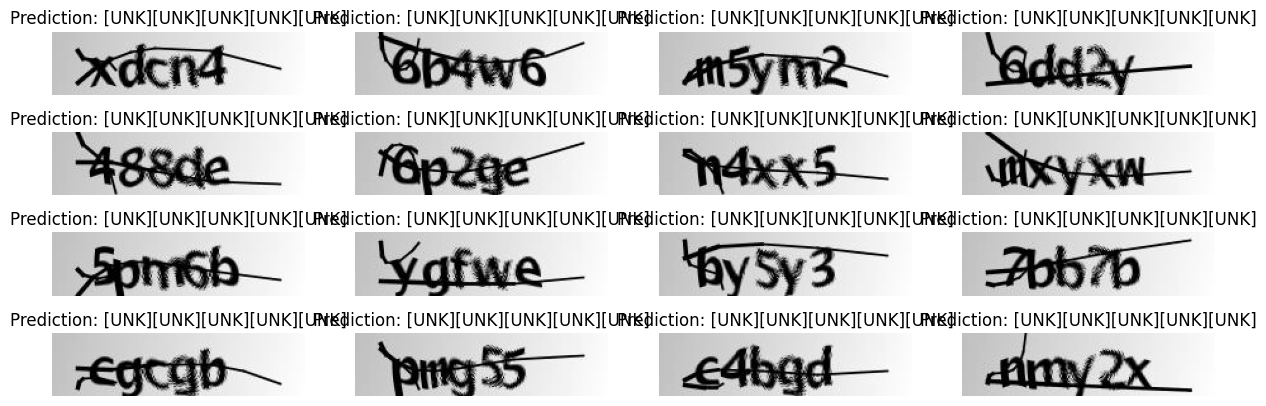
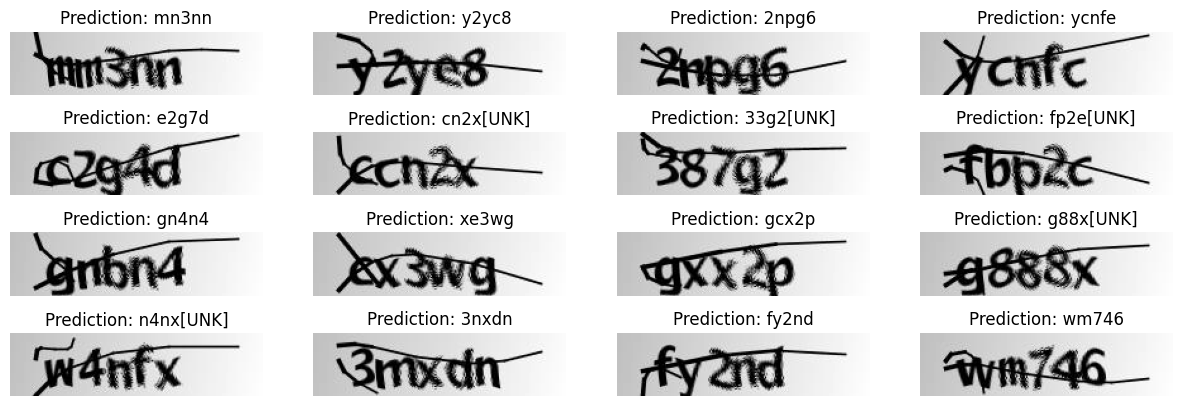
update captcha example

diff --git a/examples/vision/captcha_ocr.py b/examples/vision/captcha_ocr.py
@@ -330,7 +330,7 @@ model.summary()
 
 
 # TODO restore epoch count.
-epochs = 2
+epochs = 100
 early_stopping_patience = 10
 # Add early stopping
 early_stopping = keras.callbacks.EarlyStopping(

diff --git a/examples/vision/md/captcha_ocr.md b/examples/vision/md/captcha_ocr.md
@@ -56,7 +56,7 @@ Let's download the data.
   % Total    % Received % Xferd  Average Speed   Time    Time     Time  Current
                                  Dload  Upload   Total   Spent    Left  Speed
   0     0    0     0    0     0      0      0 --:--:-- --:--:-- --:--:--     0
-100 8863k  100 8863k    0     0  19.6M      0 --:--:-- --:--:-- --:--:-- 19.6M
+100 8863k  100 8863k    0     0  11.9M      0 --:--:-- --:--:-- --:--:--  141M
 
 ```
 </div>
@@ -432,7 +432,7 @@ model.summary()
 ```python
 
 # TODO restore epoch count.
-epochs = 2
+epochs = 100
 early_stopping_patience = 10
 # Add early stopping
 early_stopping = keras.callbacks.EarlyStopping(
@@ -451,10 +451,206 @@ history = model.fit(
 
 <div class="k-default-codeblock">
 ```
-Epoch 1/2
- 59/59 ━━━━━━━━━━━━━━━━━━━━ 8s 78ms/step - loss: 31.6480 - val_loss: 16.4761
-Epoch 2/2
- 59/59 ━━━━━━━━━━━━━━━━━━━━ 4s 64ms/step - loss: 16.4152 - val_loss: 16.4351
+Epoch 1/100
+ 59/59 ━━━━━━━━━━━━━━━━━━━━ 22s 229ms/step - loss: 35.8756 - val_loss: 16.3966
+Epoch 2/100
+ 59/59 ━━━━━━━━━━━━━━━━━━━━ 14s 235ms/step - loss: 16.4092 - val_loss: 16.3648
+Epoch 3/100
+ 59/59 ━━━━━━━━━━━━━━━━━━━━ 13s 224ms/step - loss: 16.3922 - val_loss: 16.3571
+Epoch 4/100
+ 59/59 ━━━━━━━━━━━━━━━━━━━━ 13s 218ms/step - loss: 16.3749 - val_loss: 16.3602
+Epoch 5/100
+ 59/59 ━━━━━━━━━━━━━━━━━━━━ 20s 210ms/step - loss: 16.3756 - val_loss: 16.3513
+Epoch 6/100
+ 59/59 ━━━━━━━━━━━━━━━━━━━━ 14s 236ms/step - loss: 16.3737 - val_loss: 16.3466
+Epoch 7/100
+ 59/59 ━━━━━━━━━━━━━━━━━━━━ 13s 227ms/step - loss: 16.3591 - val_loss: 16.3479
+Epoch 8/100
+ 59/59 ━━━━━━━━━━━━━━━━━━━━ 13s 219ms/step - loss: 16.3505 - val_loss: 16.3436
+Epoch 9/100
+ 59/59 ━━━━━━━━━━━━━━━━━━━━ 13s 213ms/step - loss: 16.3440 - val_loss: 16.3386
+Epoch 10/100
+ 59/59 ━━━━━━━━━━━━━━━━━━━━ 13s 226ms/step - loss: 16.3312 - val_loss: 16.3066
+Epoch 11/100
+ 59/59 ━━━━━━━━━━━━━━━━━━━━ 13s 224ms/step - loss: 16.3077 - val_loss: 16.3288
+Epoch 12/100
+ 59/59 ━━━━━━━━━━━━━━━━━━━━ 13s 226ms/step - loss: 16.2746 - val_loss: 16.2750
+Epoch 13/100
+ 59/59 ━━━━━━━━━━━━━━━━━━━━ 13s 214ms/step - loss: 16.1853 - val_loss: 16.1606
+Epoch 14/100
+ 59/59 ━━━━━━━━━━━━━━━━━━━━ 21s 229ms/step - loss: 16.0636 - val_loss: 16.1616
+Epoch 15/100
+ 59/59 ━━━━━━━━━━━━━━━━━━━━ 13s 223ms/step - loss: 15.9873 - val_loss: 16.0928
+Epoch 16/100
+ 59/59 ━━━━━━━━━━━━━━━━━━━━ 13s 224ms/step - loss: 15.9339 - val_loss: 16.0070
+Epoch 17/100
+ 59/59 ━━━━━━━━━━━━━━━━━━━━ 13s 213ms/step - loss: 15.8379 - val_loss: 15.8443
+Epoch 18/100
+ 59/59 ━━━━━━━━━━━━━━━━━━━━ 13s 212ms/step - loss: 15.7156 - val_loss: 15.6414
+Epoch 19/100
+ 59/59 ━━━━━━━━━━━━━━━━━━━━ 21s 224ms/step - loss: 15.5618 - val_loss: 15.5937
+Epoch 20/100
+ 59/59 ━━━━━━━━━━━━━━━━━━━━ 20s 219ms/step - loss: 15.4386 - val_loss: 15.4481
+Epoch 21/100
+ 59/59 ━━━━━━━━━━━━━━━━━━━━ 13s 215ms/step - loss: 15.2270 - val_loss: 15.4191
+Epoch 22/100
+ 59/59 ━━━━━━━━━━━━━━━━━━━━ 14s 229ms/step - loss: 15.0565 - val_loss: 15.1226
+Epoch 23/100
+ 59/59 ━━━━━━━━━━━━━━━━━━━━ 13s 226ms/step - loss: 14.8641 - val_loss: 14.9598
+Epoch 24/100
+ 59/59 ━━━━━━━━━━━━━━━━━━━━ 13s 225ms/step - loss: 14.6488 - val_loss: 14.7074
+Epoch 25/100
+ 59/59 ━━━━━━━━━━━━━━━━━━━━ 20s 213ms/step - loss: 14.3843 - val_loss: 14.4713
+Epoch 26/100
+ 59/59 ━━━━━━━━━━━━━━━━━━━━ 13s 224ms/step - loss: 14.1244 - val_loss: 14.0645
+Epoch 27/100
+ 59/59 ━━━━━━━━━━━━━━━━━━━━ 13s 218ms/step - loss: 13.8279 - val_loss: 13.7670
+Epoch 28/100
+ 59/59 ━━━━━━━━━━━━━━━━━━━━ 20s 218ms/step - loss: 13.4959 - val_loss: 13.5277
+Epoch 29/100
+ 59/59 ━━━━━━━━━━━━━━━━━━━━ 12s 206ms/step - loss: 13.2192 - val_loss: 13.2536
+Epoch 30/100
+ 59/59 ━━━━━━━━━━━━━━━━━━━━ 23s 248ms/step - loss: 12.9255 - val_loss: 12.8277
+Epoch 31/100
+ 59/59 ━━━━━━━━━━━━━━━━━━━━ 19s 220ms/step - loss: 12.5599 - val_loss: 12.6968
+Epoch 32/100
+ 59/59 ━━━━━━━━━━━━━━━━━━━━ 12s 207ms/step - loss: 12.2893 - val_loss: 12.3682
+Epoch 33/100
+ 59/59 ━━━━━━━━━━━━━━━━━━━━ 12s 205ms/step - loss: 11.8148 - val_loss: 11.7916
+Epoch 34/100
+ 59/59 ━━━━━━━━━━━━━━━━━━━━ 21s 215ms/step - loss: 11.3895 - val_loss: 11.6033
+Epoch 35/100
+ 59/59 ━━━━━━━━━━━━━━━━━━━━ 13s 216ms/step - loss: 11.0912 - val_loss: 11.1269
+Epoch 36/100
+ 59/59 ━━━━━━━━━━━━━━━━━━━━ 12s 206ms/step - loss: 10.7124 - val_loss: 10.8567
+Epoch 37/100
+ 59/59 ━━━━━━━━━━━━━━━━━━━━ 12s 203ms/step - loss: 10.2611 - val_loss: 10.5215
+Epoch 38/100
+ 59/59 ━━━━━━━━━━━━━━━━━━━━ 13s 220ms/step - loss: 9.9407 - val_loss: 10.2151
+Epoch 39/100
+ 59/59 ━━━━━━━━━━━━━━━━━━━━ 13s 213ms/step - loss: 9.5958 - val_loss: 9.6870
+Epoch 40/100
+ 59/59 ━━━━━━━━━━━━━━━━━━━━ 20s 208ms/step - loss: 9.2352 - val_loss: 9.2340
+Epoch 41/100
+ 59/59 ━━━━━━━━━━━━━━━━━━━━ 12s 202ms/step - loss: 8.7480 - val_loss: 8.9227
+Epoch 42/100
+ 59/59 ━━━━━━━━━━━━━━━━━━━━ 13s 218ms/step - loss: 8.2937 - val_loss: 8.7348
+Epoch 43/100
+ 59/59 ━━━━━━━━━━━━━━━━━━━━ 13s 214ms/step - loss: 8.0500 - val_loss: 8.3136
+Epoch 44/100
+ 59/59 ━━━━━━━━━━━━━━━━━━━━ 13s 213ms/step - loss: 7.7643 - val_loss: 7.9847
+Epoch 45/100
+ 59/59 ━━━━━━━━━━━━━━━━━━━━ 12s 207ms/step - loss: 7.2927 - val_loss: 7.9830
+Epoch 46/100
+ 59/59 ━━━━━━━━━━━━━━━━━━━━ 12s 200ms/step - loss: 7.0159 - val_loss: 7.4162
+Epoch 47/100
+ 59/59 ━━━━━━━━━━━━━━━━━━━━ 13s 217ms/step - loss: 6.8198 - val_loss: 7.1488
+Epoch 48/100
+ 59/59 ━━━━━━━━━━━━━━━━━━━━ 13s 213ms/step - loss: 6.4661 - val_loss: 7.0038
+Epoch 49/100
+ 59/59 ━━━━━━━━━━━━━━━━━━━━ 20s 210ms/step - loss: 6.1844 - val_loss: 6.7504
+Epoch 50/100
+ 59/59 ━━━━━━━━━━━━━━━━━━━━ 20s 201ms/step - loss: 5.8523 - val_loss: 6.5577
+Epoch 51/100
+ 59/59 ━━━━━━━━━━━━━━━━━━━━ 13s 225ms/step - loss: 5.7405 - val_loss: 6.4001
+Epoch 52/100
+ 59/59 ━━━━━━━━━━━━━━━━━━━━ 20s 215ms/step - loss: 5.3831 - val_loss: 6.3826
+Epoch 53/100
+ 59/59 ━━━━━━━━━━━━━━━━━━━━ 12s 202ms/step - loss: 5.1238 - val_loss: 6.0649
+Epoch 54/100
+ 59/59 ━━━━━━━━━━━━━━━━━━━━ 21s 218ms/step - loss: 4.9646 - val_loss: 5.8397
+Epoch 55/100
+ 59/59 ━━━━━━━━━━━━━━━━━━━━ 20s 213ms/step - loss: 4.7486 - val_loss: 5.7926
+Epoch 56/100
+ 59/59 ━━━━━━━━━━━━━━━━━━━━ 12s 206ms/step - loss: 4.4270 - val_loss: 5.7480
+Epoch 57/100
+ 59/59 ━━━━━━━━━━━━━━━━━━━━ 12s 199ms/step - loss: 4.3954 - val_loss: 5.7311
+Epoch 58/100
+ 59/59 ━━━━━━━━━━━━━━━━━━━━ 12s 205ms/step - loss: 4.2907 - val_loss: 5.6178
+Epoch 59/100
+ 59/59 ━━━━━━━━━━━━━━━━━━━━ 21s 211ms/step - loss: 4.0034 - val_loss: 5.3565
+Epoch 60/100
+ 59/59 ━━━━━━━━━━━━━━━━━━━━ 12s 208ms/step - loss: 3.7862 - val_loss: 5.3226
+Epoch 61/100
+ 59/59 ━━━━━━━━━━━━━━━━━━━━ 12s 198ms/step - loss: 3.7867 - val_loss: 5.1675
+Epoch 62/100
+ 59/59 ━━━━━━━━━━━━━━━━━━━━ 12s 198ms/step - loss: 3.3635 - val_loss: 4.9778
+Epoch 63/100
+ 59/59 ━━━━━━━━━━━━━━━━━━━━ 13s 223ms/step - loss: 3.3120 - val_loss: 5.0680
+Epoch 64/100
+ 59/59 ━━━━━━━━━━━━━━━━━━━━ 13s 213ms/step - loss: 3.2816 - val_loss: 4.9794
+Epoch 65/100
+ 59/59 ━━━━━━━━━━━━━━━━━━━━ 12s 209ms/step - loss: 3.1493 - val_loss: 4.9307
+Epoch 66/100
+ 59/59 ━━━━━━━━━━━━━━━━━━━━ 12s 199ms/step - loss: 2.8954 - val_loss: 4.6848
+Epoch 67/100
+ 59/59 ━━━━━━━━━━━━━━━━━━━━ 12s 200ms/step - loss: 2.9579 - val_loss: 4.7673
+Epoch 68/100
+ 59/59 ━━━━━━━━━━━━━━━━━━━━ 13s 224ms/step - loss: 2.8408 - val_loss: 4.7547
+Epoch 69/100
+ 59/59 ━━━━━━━━━━━━━━━━━━━━ 13s 212ms/step - loss: 2.5937 - val_loss: 4.6363
+Epoch 70/100
+ 59/59 ━━━━━━━━━━━━━━━━━━━━ 12s 206ms/step - loss: 2.5928 - val_loss: 4.6453
+Epoch 71/100
+ 59/59 ━━━━━━━━━━━━━━━━━━━━ 12s 198ms/step - loss: 2.5662 - val_loss: 4.6460
+Epoch 72/100
+ 59/59 ━━━━━━━━━━━━━━━━━━━━ 15s 249ms/step - loss: 2.5619 - val_loss: 4.7042
+Epoch 73/100
+ 59/59 ━━━━━━━━━━━━━━━━━━━━ 18s 211ms/step - loss: 2.3146 - val_loss: 4.5853
+Epoch 74/100
+ 59/59 ━━━━━━━━━━━━━━━━━━━━ 12s 210ms/step - loss: 2.1848 - val_loss: 4.5865
+Epoch 75/100
+ 59/59 ━━━━━━━━━━━━━━━━━━━━ 20s 199ms/step - loss: 2.1284 - val_loss: 4.6487
+Epoch 76/100
+ 59/59 ━━━━━━━━━━━━━━━━━━━━ 13s 218ms/step - loss: 2.0072 - val_loss: 4.5793
+Epoch 77/100
+ 59/59 ━━━━━━━━━━━━━━━━━━━━ 12s 209ms/step - loss: 1.8963 - val_loss: 4.6183
+Epoch 78/100
+ 59/59 ━━━━━━━━━━━━━━━━━━━━ 12s 211ms/step - loss: 1.7980 - val_loss: 4.7451
+Epoch 79/100
+ 59/59 ━━━━━━━━━━━━━━━━━━━━ 12s 198ms/step - loss: 1.7276 - val_loss: 4.6344
+Epoch 80/100
+ 59/59 ━━━━━━━━━━━━━━━━━━━━ 12s 200ms/step - loss: 1.7558 - val_loss: 4.5365
+Epoch 81/100
+ 59/59 ━━━━━━━━━━━━━━━━━━━━ 13s 221ms/step - loss: 1.6611 - val_loss: 4.4597
+Epoch 82/100
+ 59/59 ━━━━━━━━━━━━━━━━━━━━ 12s 209ms/step - loss: 1.6337 - val_loss: 4.5162
+Epoch 83/100
+ 59/59 ━━━━━━━━━━━━━━━━━━━━ 12s 211ms/step - loss: 1.5404 - val_loss: 4.5297
+Epoch 84/100
+ 59/59 ━━━━━━━━━━━━━━━━━━━━ 20s 199ms/step - loss: 1.5716 - val_loss: 4.5663
+Epoch 85/100
+ 59/59 ━━━━━━━━━━━━━━━━━━━━ 13s 216ms/step - loss: 1.5106 - val_loss: 4.5341
+Epoch 86/100
+ 59/59 ━━━━━━━━━━━━━━━━━━━━ 12s 210ms/step - loss: 1.4508 - val_loss: 4.5627
+Epoch 87/100
+ 59/59 ━━━━━━━━━━━━━━━━━━━━ 12s 210ms/step - loss: 1.3580 - val_loss: 4.6142
+Epoch 88/100
+ 59/59 ━━━━━━━━━━━━━━━━━━━━ 20s 198ms/step - loss: 1.3243 - val_loss: 4.4505
+Epoch 89/100
+ 59/59 ━━━━━━━━━━━━━━━━━━━━ 12s 208ms/step - loss: 1.2391 - val_loss: 4.5890
+Epoch 90/100
+ 59/59 ━━━━━━━━━━━━━━━━━━━━ 12s 210ms/step - loss: 1.2288 - val_loss: 4.6803
+Epoch 91/100
+ 59/59 ━━━━━━━━━━━━━━━━━━━━ 20s 208ms/step - loss: 1.1559 - val_loss: 4.6009
+Epoch 92/100
+ 59/59 ━━━━━━━━━━━━━━━━━━━━ 12s 198ms/step - loss: 1.1157 - val_loss: 4.6105
+Epoch 93/100
+ 59/59 ━━━━━━━━━━━━━━━━━━━━ 12s 199ms/step - loss: 1.0949 - val_loss: 4.4293
+Epoch 94/100
+ 59/59 ━━━━━━━━━━━━━━━━━━━━ 13s 225ms/step - loss: 1.0753 - val_loss: 4.3587
+Epoch 95/100
+ 59/59 ━━━━━━━━━━━━━━━━━━━━ 12s 210ms/step - loss: 0.9857 - val_loss: 4.7014
+Epoch 96/100
+ 59/59 ━━━━━━━━━━━━━━━━━━━━ 12s 208ms/step - loss: 1.0708 - val_loss: 4.6754
+Epoch 97/100
+ 59/59 ━━━━━━━━━━━━━━━━━━━━ 12s 201ms/step - loss: 0.9798 - val_loss: 4.4668
+Epoch 98/100
+ 59/59 ━━━━━━━━━━━━━━━━━━━━ 12s 205ms/step - loss: 0.9349 - val_loss: 4.7812
+Epoch 99/100
+ 59/59 ━━━━━━━━━━━━━━━━━━━━ 21s 209ms/step - loss: 0.8769 - val_loss: 4.8273
+Epoch 100/100
+ 59/59 ━━━━━━━━━━━━━━━━━━━━ 20s 202ms/step - loss: 0.9521 - val_loss: 4.5411
 
 ```
 </div>
@@ -593,7 +789,7 @@ plt.show()
 
 <div class="k-default-codeblock">
 ```
- 1/1 ━━━━━━━━━━━━━━━━━━━━ 0s 258ms/step
+ 1/1 ━━━━━━━━━━━━━━━━━━━━ 1s 579ms/step
 
 ```
 </div>
